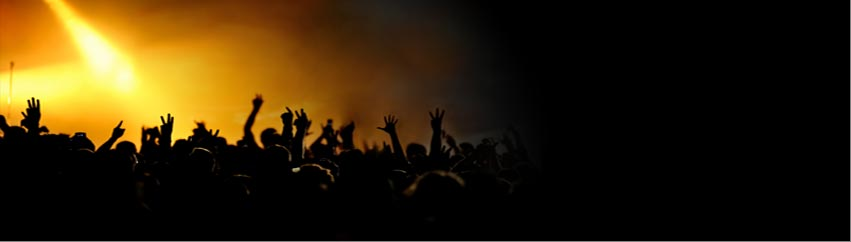
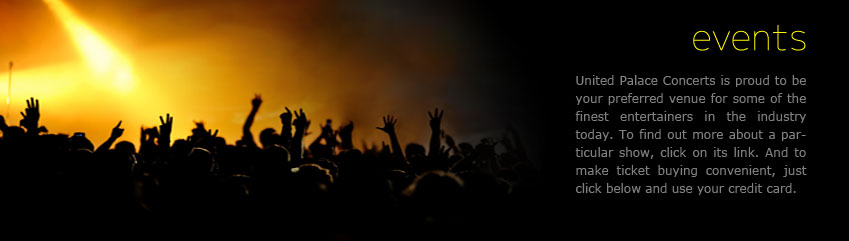
rest of site pretty much done.  Contact forms, directions, all current copy in place

diff --git a/index.html b/index.html
@@ -7,7 +7,7 @@
 	<title>United Palace Concerts</title>
 	<link rel="stylesheet" href="css/style.css" type="text/css" media="screen" />
 	<script type="text/javascript" src="http://ajax.googleapis.com/ajax/libs/jquery/1.4.2/jquery.min.js"></script>	
-	<meta name="description" content="The official website and concert calendar for the United Palace Theater in Washington Heights, New York.  Information about Allman Brothers, Mark Knopfler, Elvis Costello shows." />
+		<meta name="description" content="The official website and concert calendar for the United Palace Theater in Washington Heights, New York.  Information about Allman Brothers, Mark Knopfler, Elvis Costello shows." />
 	<meta name="keywords" content="United, Palace, Theater, Washington, Heights, New, York, Concert, Live, Show" />
 </head>
 <body>
@@ -17,13 +17,13 @@
 		<a href="index.html"><img id="logo" src="images/logo.gif" alt="United Palace Concerts" /></a>
 		
 		<div id="header-wrap">
-			<p class="newsletter"><a href="#">Sign up for our <span class="yellow">E-Newsletter</span></a></p>
+			<p class="newsletter"><a href="#" onclick="window.open('http://unitedpalaceconcerts.wufoo.com/forms/z7x4a9/',  null, 'height=475, width=680, toolbar=0, location=0, status=1, scrollbars=1,resizable=1'); return false" title="United Palace Concerts eNewsletter signup">Sign up for our <span class="yellow">E-Newsletter</span></a></p>
 			<ul class="topnav">
 				<li><a href="./index.html" title="Home">Home</a></li>
 				<li><a href="./events.html" title="Events">Events</a></li>
 				<li><a href="./seating.html" title="Seating">Seating</a></li>
 				<li><a href="./directions.html" title="Directions">Directions</a></li>
-				<li><a href="#">Contact</a></li>
+				<li><a href="./contact.html">Contact</a></li>
 			</ul>
 		</div>
 	</div><!--header-->
@@ -39,7 +39,7 @@
 					<div class="event-info">
 						<p class="home-band"><a target="_blank" href="http://www.allmanbrothersband.com/">The Allman Brothers Band</a></p>
 						<a target="_blank" href="http://www.ticketmaster.com/Allman-Brothers-Band-tickets/artist/734412">
-						<p class="yellow bold">March</p>
+						<p class="yellow">March</p>
 						<p class="home-days yellow">11-13, 15, 16,<br />
 						18-20, 22, 23,<br />
 						& 25-27</p></a>
@@ -50,21 +50,21 @@
 						<a target="_blank" href="http://www.ticketmaster.com/event/0000443EC91151CC?artistid=734817&majorcatid=10001&minorcatid=60"><img src="images/elvis-thumb.jpg" alt="Elvis Costello" class="float-left" /></a>
 						<div class="event-info">
 							<a target="_blank" href="http://www.elviscostello.com/"><p class="home-band">Elvis Costello</p></a>
-							<a target="_blank" href="http://www.ticketmaster.com/event/0000443EC91151CC?artistid=734817&majorcatid=10001&minorcatid=60"><p class="yellow bold">April 23</p></a>
+							<a target="_blank" href="http://www.ticketmaster.com/event/0000443EC91151CC?artistid=734817&majorcatid=10001&minorcatid=60"><p class="yellow">April 23</p></a>
 						</div>
 					</div>
 					<div class="sub space">
 						<img src="images/knopfler-thumb.jpg" alt="Mark Knopfler" class="float-left" />
 						<div class="event-info">
 							<p class="home-band">Mark Knopfler</p>
-							<p class="yellow bold">May 6</p>
+							<p class="yellow">May 6</p>
 						</div>
 					</div>
 				</div><!--sub wrapper-->
 			</div><!--home events-->
 			<div id="homepage-welcome">
 				<img src="images/welcome.jpg" class="home-header" alt="welcome" />
-				<p>Pellentesque habitant morbi tristique senectus et netus et malesuada fames ac turpis egestas. Vestibulum tortor quam, feugiat vitae, ultricies eget, tempor sit amet, ante. Donec eu libero sit amet quam egestas semper. Aenean ultricies mi vitae est. Mauris placerat eleifend leo. Quisque sit amet est et sapien ullamcorper pharetra. Vestibulum erat wisi, condimentum sed, commodo vitae, ornare sit amet, wisi. Aenean fermentum, elit eget tincidunt condimentum, eros ipsum rutrum orci, sagittis tempus lacus enim ac dui. Donec non enim in turpis pulvinar facilisis. Ut felis. Praesent dapibus, neque id cursus faucibus, tortor neque egestas augue, eu vulputate magna eros eu erat. Aliquam erat volutpat. Nam dui mi, tincidunt quis, accumsan porttitor, facilisis luctus, metus</p>
+				<p>Welcome to United Palace Concerts where old world charm meets all-world décor and new world acoustics. Conveniently located at 175th and Broadway in Washington Heights, we feature performances from classical to rock to pop, and everything in between. Our venue inspires artists to perform at their best while providing concert goers with a plush setting in which to enjoy their favorite music. For that unforgettable experience that you and your friends will talk about for years to come, make United Palace Concerts your destination. </p>
 			</div>
 		</div><!--content area-->
 		<div id="footer">
@@ -80,5 +80,14 @@
 		</div>
 	</div><!--content wrapper-->
 </div><!--wrapper-->
+<script type="text/javascript"> 
+var gaJsHost = (("https:" == document.location.protocol) ? "https://ssl." : "http://www.");
+document.write(unescape("%3Cscript src='" + gaJsHost + "google-analytics.com/ga.js' type='text/javascript'%3E%3C/script%3E"));
+</script> 
+<script type="text/javascript"> 
+try {
+var pageTracker = _gat._getTracker("UA-12578534-5");
+pageTracker._trackPageview();
+} catch(err) {}</script>
 </body><!--Grubb was here-->
 </html>

diff --git a/directions.html b/directions.html
@@ -17,7 +17,7 @@
 		<a href="index.html"><img id="logo" src="images/logo.gif" alt="United Palace Concerts" /></a>
 		
 		<div id="header-wrap">
-			<p class="newsletter"><a href="#">Sign up for our <span class="yellow">E-Newsletter</span></a></p>
+			<p class="newsletter"><a href="#" onclick="window.open('http://unitedpalaceconcerts.wufoo.com/forms/z7x4a9/',  null, 'height=475, width=680, toolbar=0, location=0, status=1, scrollbars=1,resizable=1'); return false" title="United Palace Concerts eNewsletter signup">Sign up for our <span class="yellow">E-Newsletter</span></a></p>
 			<ul class="topnav">
 				<li><a href="./index.html" title="Home">Home</a></li>
 				<li><a href="./events.html" title="Events">Events</a></li>
@@ -34,6 +34,32 @@
 		</div>
 		
 		<div id="content-area">
+			<div id="directions-right">
+				<iframe width="350" height="350" frameborder="0" scrolling="no" marginheight="0" marginwidth="0" src="http://maps.google.com/maps/ms?ie=UTF8&amp;hl=en&amp;msa=0&amp;msid=115285433060855637825.000480d427a6a2fe51f17&amp;ll=40.845892,-73.937216&amp;spn=0.011362,0.018239&amp;z=15&amp;output=embed"></iframe>
+			</div>
+			<div id="directions-left">
+			  <h3><strong>Directions / Parking / Transportation</strong></h3> 
+	          <p><strong>Directions:</strong><br /> 
+	          Driving  from the South &amp; New Jersey, take the George Washington Bridge and exit at  178th Street &amp; Broadway. <br /> 
+	          <br /> 
+	          From Connecticut and Bronx: Take Cross Bronx to Amsterdam Exit, 2 exits before  GWB, to 18th St. Turn Left on Amsterdam then RIght on 177th to Broadway. <br /> 
+	          <br /> 
+	          From West Side Manhattan: Take West Side HWY  North to Cross Bronx Exit at 178th St &amp;  Broadway.<br /> 
+	          <br /> 
+	          From Queens, Long Island, Brooklyn, East Manhattan: From Triboro Bridge to  Manhattan to Harlem River Drive North to last Left exit before GWB, 179th St.  Left on Amsterdam and right on 177th to Broadway. </p> 
+	          <p><br /> 
+	          <strong>Parking:</strong><br /> 
+	          -Two  garages between 176th and 177th on Broadway.<br /> 
+	          -Parking lot on 172nd and Broadway.<br /> 
+	          -On street metered parking also available.</p> 
+	          <p>-See Map to the right</p> 
+	          <p><br /> 
+	          <strong>Public Transportation:</strong><br /> 
+	          By  Subway: Take the &quot;A&quot; train to 175th Street. Theater is one short  block East of station. 20 minutes from midtown/Times Square.<br /> 
+	          <br /> 
+	        By Bus: Take M100 to 175th &amp; Broadway </p>
+			</div>
+			
 		</div>
 		
 		<div id="footer">
@@ -49,5 +75,14 @@
 		</div>
 	</div><!--content wrapper-->
 </div><!--wrapper-->
+<script type="text/javascript"> 
+var gaJsHost = (("https:" == document.location.protocol) ? "https://ssl." : "http://www.");
+document.write(unescape("%3Cscript src='" + gaJsHost + "google-analytics.com/ga.js' type='text/javascript'%3E%3C/script%3E"));
+</script> 
+<script type="text/javascript"> 
+try {
+var pageTracker = _gat._getTracker("UA-12578534-5");
+pageTracker._trackPageview();
+} catch(err) {}</script>
 </body><!--Grubb was here-->
 </html>

diff --git a/contact.html b/contact.html
@@ -19,7 +19,7 @@
 		<a href="index.html"><img id="logo" src="images/logo.gif" alt="United Palace Concerts" /></a>
 		
 		<div id="header-wrap">
-			<p class="newsletter"><a href="#">Sign up for our <span class="yellow">E-Newsletter</span></a></p>
+			<p class="newsletter"><a href="#" onclick="window.open('http://unitedpalaceconcerts.wufoo.com/forms/z7x4a9/',  null, 'height=475, width=680, toolbar=0, location=0, status=1, scrollbars=1,resizable=1'); return false" title="United Palace Concerts eNewsletter signup">Sign up for our <span class="yellow">E-Newsletter</span></a></p>
 			<ul class="topnav">
 				<li><a href="./index.html" title="Home">Home</a></li>
 				<li><a href="./events.html" title="Events">Events</a></li>
@@ -36,6 +36,41 @@
 		</div>
 		
 		<div id="content-area">
+		
+		<p class="faq">We'd love to hear from you, but we have anticipated some of the most frequently asked questions about United Palace Concerts and we're including them here for you. For everything else fill out the form below completely and submit it and we'll get back to you with a response.</p>
+
+<h2>General Venue FAQs</h2>
+
+<p class="faq">What are your box office hours of operation? <br />
+
+Monday thru Saturday from Noon to 7pm <br />
+
+If I'm buying my tickets at the box office, what types of payment do you accept? <br />
+
+We only accept cash for on site transactions. <br />
+
+Do you have Will Call? Can I pick up my tickets there? <br />
+
+Yes, we have Will Call at the box office. You must pick up your tickets one hour before show time. <br />
+
+Are there any rules regarding the venue? <br />
+
+We are very strict about our no smoking policy. <br />
+
+Do you provide discounts for children? <br />
+
+No discounts are available for children. Children age five and older require a ticket (not a children's show). </p><br />
+			<script type="text/javascript">var host = (("https:" == document.location.protocol) ? "https://secure." : "http://");document.write(unescape("%3Cscript src='" + host + "wufoo.com/scripts/embed/form.js' type='text/javascript'%3E%3C/script%3E"));</script>
+			
+			<script type="text/javascript">
+			var m7x3k1 = new WufooForm();
+			m7x3k1.initialize({
+			'userName':'unitedpalaceconcerts', 
+			'formHash':'m7x3k1', 
+			'autoResize':true,
+			'height':'511'});
+			m7x3k1.display();
+			</script>
 		</div>
 		
 		<div id="footer">
@@ -51,5 +86,14 @@
 		</div>
 	</div><!--content wrapper-->
 </div><!--wrapper-->
+<script type="text/javascript"> 
+var gaJsHost = (("https:" == document.location.protocol) ? "https://ssl." : "http://www.");
+document.write(unescape("%3Cscript src='" + gaJsHost + "google-analytics.com/ga.js' type='text/javascript'%3E%3C/script%3E"));
+</script> 
+<script type="text/javascript"> 
+try {
+var pageTracker = _gat._getTracker("UA-12578534-5");
+pageTracker._trackPageview();
+} catch(err) {}</script>
 </body><!--Grubb was here-->
 </html>

diff --git a/events.html b/events.html
@@ -17,7 +17,7 @@
 		<a href="index.html"><img id="logo" src="images/logo.gif" alt="United Palace Concerts" /></a>
 		
 		<div id="header-wrap">
-			<p class="newsletter"><a href="#">Sign up for our <span class="yellow">E-Newsletter</span></a></p>
+			<p class="newsletter"><a href="#" onclick="window.open('http://unitedpalaceconcerts.wufoo.com/forms/z7x4a9/',  null, 'height=475, width=680, toolbar=0, location=0, status=1, scrollbars=1,resizable=1'); return false" title="United Palace Concerts eNewsletter signup">Sign up for our <span class="yellow">E-Newsletter</span></a></p>
 			<ul class="topnav">
 				<li><a href="./index.html" title="Home">Home</a></li>
 				<li><a href="./events.html" title="Events">Events</a></li>
@@ -49,5 +49,14 @@
 		</div>
 	</div><!--content wrapper-->
 </div><!--wrapper-->
+<script type="text/javascript"> 
+var gaJsHost = (("https:" == document.location.protocol) ? "https://ssl." : "http://www.");
+document.write(unescape("%3Cscript src='" + gaJsHost + "google-analytics.com/ga.js' type='text/javascript'%3E%3C/script%3E"));
+</script> 
+<script type="text/javascript"> 
+try {
+var pageTracker = _gat._getTracker("UA-12578534-5");
+pageTracker._trackPageview();
+} catch(err) {}</script>
 </body><!--Grubb was here-->
 </html>

diff --git a/seating.html b/seating.html
@@ -17,7 +17,7 @@
 		<a href="index.html"><img id="logo" src="images/logo.gif" alt="United Palace Concerts" /></a>
 		
 		<div id="header-wrap">
-			<p class="newsletter"><a href="#">Sign up for our <span class="yellow">E-Newsletter</span></a></p>
+			<p class="newsletter"><a href="#" onclick="window.open('http://unitedpalaceconcerts.wufoo.com/forms/z7x4a9/',  null, 'height=475, width=680, toolbar=0, location=0, status=1, scrollbars=1,resizable=1'); return false" title="United Palace Concerts eNewsletter signup">Sign up for our <span class="yellow">E-Newsletter</span></a></p>
 			<ul class="topnav">
 				<li><a href="./index.html" title="Home">Home</a></li>
 				<li><a href="./events.html" title="Events">Events</a></li>
@@ -49,5 +49,14 @@
 		</div>
 	</div><!--content wrapper-->
 </div><!--wrapper-->
+<script type="text/javascript"> 
+var gaJsHost = (("https:" == document.location.protocol) ? "https://ssl." : "http://www.");
+document.write(unescape("%3Cscript src='" + gaJsHost + "google-analytics.com/ga.js' type='text/javascript'%3E%3C/script%3E"));
+</script> 
+<script type="text/javascript"> 
+try {
+var pageTracker = _gat._getTracker("UA-12578534-5");
+pageTracker._trackPageview();
+} catch(err) {}</script>
 </body><!--Grubb was here-->
 </html>

diff --git a/css/style.css b/css/style.css
@@ -85,8 +85,12 @@ ul.topnav a {
 	border: 1px solid #808080;
 	margin-top: 5px;
 	padding: 15px 40px 30px 25px;
+	height: auto;
 	min-height: 420px;
 	background: rgba(0,0,0,.2);
+	color: #808080;
+	font-size: 12px;
+	line-height: 17px;
 }
 
 #content-area img {
@@ -98,6 +102,9 @@ ul.topnav a {
 	width: 551px;
 	float: left;
 }
+
+img.home-header {
+	padding-bottom: 15px;}
 
 .float-left {
 	float: left;
@@ -148,6 +155,24 @@ p.home-days {
 	line-height: 17px;
 }
 
+#homepage-welcome p {
+	position: relative; top:-7px;
+}
+
+#directions-left {
+	width: auto;
+}
+
+#directions-right {
+	width: 350px;
+	float: right;
+	padding-left: 20px;
+}
+
+#footer {
+	clear:both;
+}
+
 ul.bottom-nav {
 	text-align: center;
 	list-style: none;
@@ -159,6 +184,11 @@ ul.bottom-nav li {
 	padding: 0 10px;
 	font-size: 12px;
 	text-transform: uppercase;
+}
+
+.faq {
+	padding: 15px 0;
+	line-height: 25px;
 }
 
 .copyright {
